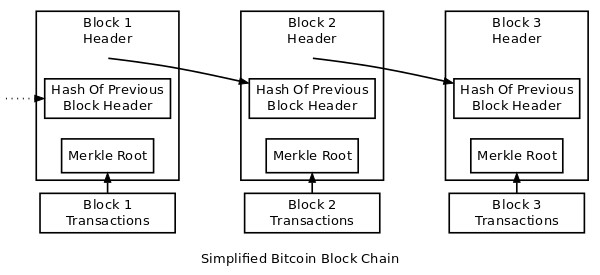
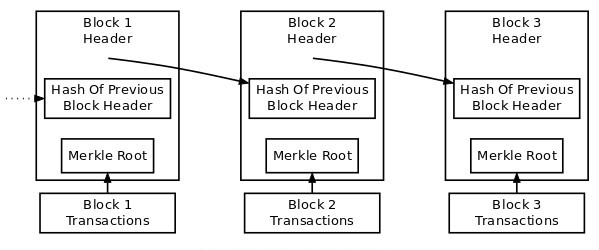
docs

Changed region(s): [[0.0301, 0.028, 0.9917, 0.98]]

diff --git a/doc/chapters/chapter2.tex b/doc/chapters/chapter2.tex
@@ -1,18 +1,11 @@
 \chapter{LibChain}
 LibChain should allows to create contracts between publisher and libraries that differ from the classical subscription models for digital media. 
 
-
 \section{Architecture Overview}
 The main architecture of LibChain is divided into three parts: React that is used to implement a prototypical library page, NodeJs that provides a REST interface that enables the connection to the frontend and the ethereum blockchain where the LibChain contracts are deployed on. Communication between the NodeJs backend and the blockchain are realized through the \texttt{Web3.js} api.
 
 \vspace{0.3cm}
 \includegraphics[width=\textwidth]{architecture.jpg}
-\subsection{Backend}
-	%% truffle
-
-\subsection{Frontend}
-
-
 \section{Smart Contracts}
 LibChain implements smart contracts for publisher, libraries and books that provides functionality to publish, buy and lend books in the LibChain ecosystem. 
 
@@ -48,7 +41,7 @@ contract Book {
 	}
 
 
-	function getBookInfo() constant returns (uint, string, string, uint, address, address)
+	function getBookInfo() constant returns (uint, string, string, uint, address, address) 
 	{
 	 	return (_year, _isbn, _gateway, _publisher, _owner, this);
 	}
@@ -97,7 +90,7 @@ The library contract contains functions to buy book instances from publisher con
 
 \paragraph*{Buying books}
 On a buy call, the publishers buy function is called to make a note for this purchase on the publishers site. This information could be used to pay the bill in the real world.
-Then the book with the requested amount of instances is stored in the libraries inventory and makes the lending possible to the library users ( see ref{sssec:contractborrow} ).
+Then the book with the requested amount of instances is stored in the libraries inventory and makes the lending possible to the library users (see \ref{sssec:contractborrow}).
 
 \begin{lstlisting}
 	function buy(address bookContract, address publisherContract, uint amount) returns (bool) {
@@ -121,7 +114,7 @@ Then the book with the requested amount of instances is stored in the libraries 
 \paragraph*{Borrowing a book \label{sssec:contractborrow}}
 For borrowing books, it's first check whether an instance is currently available. In addition it's ensured that a user can only borrow one instance of a book at once.
 
-Then, the users public key is stored to the book object in the inventory. The public key is used for checking the access authorization of the user (see hasAccessToInstance function).
+Then, the users public key is stored to the book object in the inventory. The public key is used for checking the access authorization of the user (see \ref{sssec:contractaccess}).
 
 \begin{lstlisting}
 function borrow(address bookContract, string publicKey, string userId) returns (bool) {
@@ -155,7 +148,7 @@ function borrow(address bookContract, string publicKey, string userId) returns (
 	}
 \end{lstlisting}
 
-\paragraph*{Access authorization}
+\paragraph*{Access authorization \label{sssec:contractaccess}}
 If a publisher gets a view-request, he can check the access authorization for this user. Here it's simply checked if a users public key is currently deposited in the book object in the library contract.
 The publisher has to verify the ownership of the apropriate private key by the user on service outsite the blockchain before (see \ref{sssec:access}).
 
@@ -220,6 +213,13 @@ The contract checks the availability of the requested book instances and stores 
 \includegraphics[width=0.7\textwidth]{borrow.png}
 \end{center}
 
+\subsection{Access to digital media \label{sssec:access}}
+If a user has borrowed a book, he can call the gateway-address that is stored in the book contract. That could be a normal internet address that routes the user to the publishers book service.
+The user can now create a view request by submitting the publickey (which he has submitted to the library on the borrow request) and the book id that he encrypts with the appropriate private key.
+
+By decrypting the book id with the submitted public key, the publisher can verify that the user is in possession of the private key. If this is successful, he can check that the public key is associated with a current loan of the book on the library.
+
+
 \vspace{0.3cm}
 \begin{center}
 \includegraphics[width=0.7\textwidth]{access.png}
@@ -241,19 +241,62 @@ Libraries that buy books from the Publisher will call the \\
 \verb|function buyBook(address bookContract, uint amount)|  in this function there is a mapping from library address (the buyer) to yet another mapping which is from book address to amount. This is essentially the mapping relevant for accounting. By calling the associated getter an invoice can be created for each library and each book respectively.\\
  \verb|function getBill(address library_, address book_) constant returns (uint)|
 \subsection{Access control}
-If a user has borrowed a book, he can call the gateway-address that is stored in the book contract. That could be a normal internet address that routes the user to the publishers book service.
-The user will then create a view request by submitting the publickey (which he has submitted to the library on the borrow request) and the book id that he encrypts with the appropriate private key.
 
-By decrypting the book id with the submitted public key, the publisher can verify that the user is in possession of the private key. If this is successful, he can check that the public key is associated with a current loan of the book on the library by calling the \verb|function hasAccessToInstance(string pubkey, address bookAddress)| which will return 0 if access is denied and 1 respectively if it is granted. \imp{incomplete}
 
 \section{Problems and Limitations}
- % * out of gas and poor documentation
- % * performance & confirmation times
- % * unknown gas usage before function calls
- % * solidity --> mapping / array limitations (iterability)
- % 			--> example how we solved it in LibChain
+\begin{itemize}
+\item \textbf{"out of gas" - problems}\\
+Instantiation of contracts and call of functions has to be charged with gas. While our implementation phase, we recognized that contracts needs to remain simple and lightweight. 
+For example: On our first approach, we tried to implement metrics arranged by date attributes (year and month). For this it would be necessary to do calculations on a unix timestamp to determine this data.
+But we rejected this idea, because the gas usage to call those functions were strongly increased. Furthermore the ethereum documentation to this topic is really poor and the execution of more complex contracts seems to be immature.
+
+\item \textbf{long function call times}\\
+The call of function, no matter if constant or not, needs much time for response. It seems not feasible to use getters for displaying informations in the users frontend.
+For our prototype of a library page, we used getters from the library contract and the book contract to list the book inventory in the frontend for demonstration purposes. Though we only used (constant) getter functions, the response for circa ten book entries took more about fifteen seconds. For productive systems, we recommend to mirror those informations on a local database and only use the blockchain methods for data modifying transactions like borrow, return or buy requests.
+
+\item \textbf{unknown gas usage on function calls}\\
+Every non constant function call has to be paid with gas. But it is hard to say how much gas is needed by a transaction in advance. A possibility could be calculating this by means of the documentation of ethereum \cite{wood2014ethereum}. But this is very low level and not really practicable. 
+
+\item \textbf{mapping and array limitations}\\
+Data managment in contracts could be very cumbersome. The usual feature to iterate trough a hashmap, that we know from common programming languages is not possible with solidity.
+
+To store user publickeys for borrowed books, we implemented following workaround:
+
+\begin{minipage}{\linewidth}
+\begin{lstlisting}
+
+	struct BookMeta {
+		Book book;
+		uint amount;  // == maxIndex-1
+		uint availableInstances;
+		mapping(uint => string) pubkeys; //index mapping to key
+	}
+
+	mapping(address => BookMeta) public inventory;
+\end{lstlisting}
+\end{minipage}
+
+The amount of books represents the upper bound of the public key mapping. To store and retrieve public keys, we used the indices as key values of the mapping.
+(Note: It is also not possible to store variable sized data like strings to an array. Therefore the use of a mapping is obligatory here.)
+\end{itemize}
+
 
 \section{Future Work}
- % * overflow lending
+We implemented a base prototype of LibChain, but there a some ideas we collected for the future:
+
+\begin{itemize}
+\item \textbf{Overflow lending}\\
+With LibChain we wanted to allow fairer and more accurate pricing models for publisher and library services. Currently it is possible for libraries to buy book instances similar to the puchase of books in the real world. It would also be nice to have a book access on demand. In this case, a library could lend a higher amount of instances of a book for a limited time and has not to buy instances forever.
+
+\item \textbf{Ether-Payments}\\
+In the current version, the libraries and publishers buy functions is without any limitations. Though it is guaranteed that the publisher can create valid invoices it would be desirable to implement payments directly in the cotnract nevertheless.
+
+\item \textbf{Direct user access to the blockchain}\\
+Library services currently have exclusive access to the data modifying functions on their contracts. They are acting for the user to execute borrow and return requests. The andvantage of this approach is, that users don't need to use the blockchain directly and old workflows and authentication systems of libraries can nearly remain unchanged.
+In an enhanced LibChain implementation, it could be possible that user acting with their own ethereum accounts on the blockchain without a direct intervention of the library service. The main function of the library would then to provide enough instances of books in the contract.
+
+\end{itemize}
+
+ % * overflow lending 
  % * credit for library accounts --> payments  for purchases 		with ether
- % * user access directly on the blockchain -> without library
+ % * user access directly on the blockchain -> without library 

diff --git a/doc/chapters/chapter1.tex b/doc/chapters/chapter1.tex
@@ -20,7 +20,11 @@ A blockchain is a distibuted database that stores informations on linked blocks.
 Informations are stored on the blockchain through transactions. The validity of transactions are verified by miners and are bundeled up to blocks. Miners have to provide a Proof-of-Work in order for their verification of a new block to be accepted by the rest of the network. The chain of blocks with the most amount of Proof-of-Work is where new blocks should be added to. 
 
 \vspace{0.3cm}
-\includegraphics[width=\textwidth]{blockchain.jpg}\footnote{(http://bitcoin.stackexchange.com/questions/35448/is-it-chain-of-headers-rather-than-a-chain-of-blocks)}
+\begin{figure}[ht]
+  \centering
+   \includegraphics[width=\textwidth]{blockchain.jpg}
+  	\caption{Simplified Bitcoin Block Chain}
+\end{figure}
 
 Blockchains became mainly known in a financial context. The first implementation of a blockchain was used by Bitcoin, a virtual distributed crypto currency.
 But in the meantime, blockchain technology has also become popular in other domains i.e. Voting-Systems \cite{yermack2017corporate} or for digital identity management \cite{isaen}. Applications that needs a high level of integrity and reliablilty could benefit from blockchains.
@@ -29,8 +33,8 @@ But in the meantime, blockchain technology has also become popular in other doma
 Ethereum is a public blockchain we used for LibChain, that allows us to implement decentralized applications by means of "Smart Contracts". A smart contract is exectuable code that is stored on the blockchain. It is accessible through a unique address and triggered through transaction calls.
 To execute a transaction so called gas is consumed. Gas is the fuel that is being used to pay the execution fee of the transaction\footnote{\url{http://www.reddit.com/r/ethereum/comments/2udvau/what_is_the_difference_between_gas_and_ether/}}.
 
-The programming language to implement contracts is called \textit{Solidity}. It's a high-level turing complete programming language whose syntax is similar to JavaScript. Contracts are collections of functions and variables:
-
+The programming language to implement contracts is called \textit{Solidity}. It's a high-level turing complete programming language whose syntax is similar to JavaScript. Contracts are collections of functions and variables\footnote{\url{http://solidity.readthedocs.io/en/develop/introduction-to-smart-contracts.html}}:
+\vspace{0.3cm}
 \begin{lstlisting}
 contract SimpleStorage {
     uint storedData;
@@ -43,7 +47,6 @@ contract SimpleStorage {
         return storedData;
     }
 }
-\end{lstlisting}\footnote{\url{http://solidity.readthedocs.io/en/develop/introduction-to-smart-contracts.html}}
-
-
+\end{lstlisting}
+\vspace{0.3cm}
 Mining a block on the Ethereum blockchain involves verification that exactly the deployed code was executed without tempering or inconsistencies between versions. Due to this transparency, it's easy to implement applications where normally a high level of trust between participants is needed.
